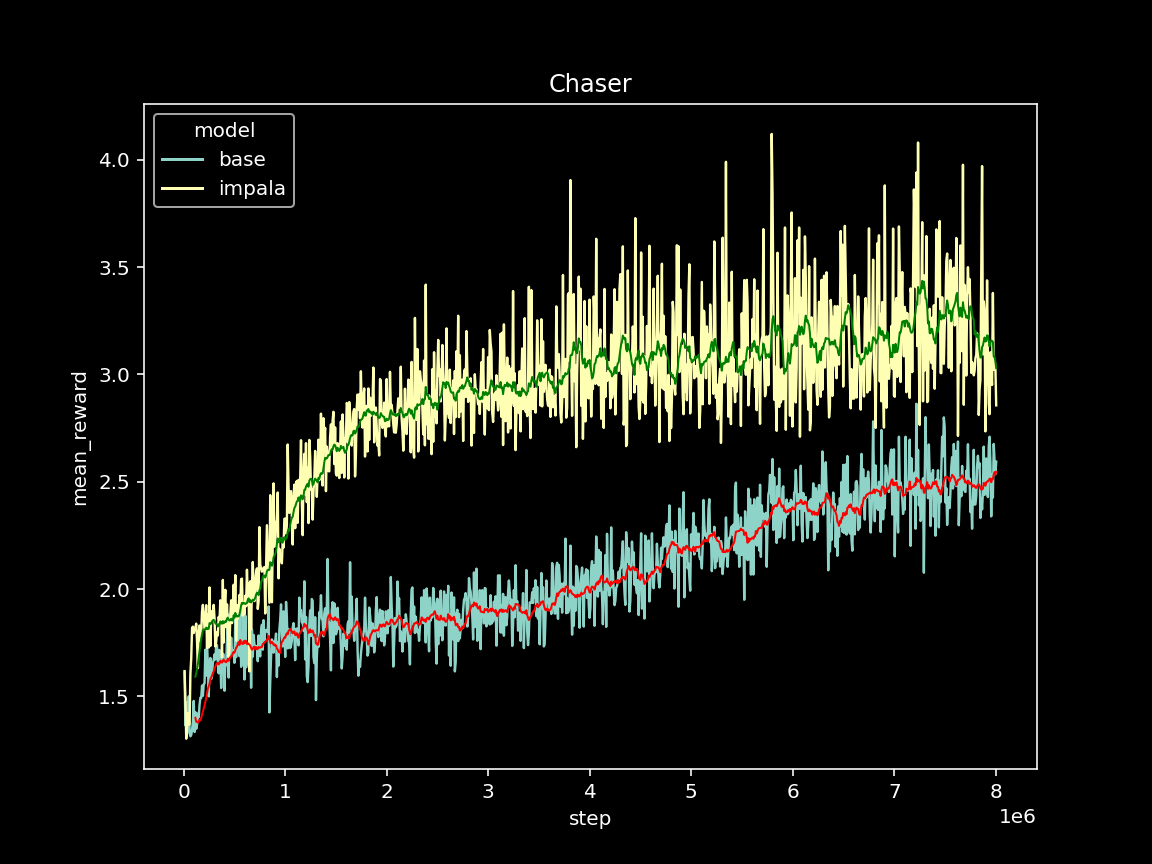
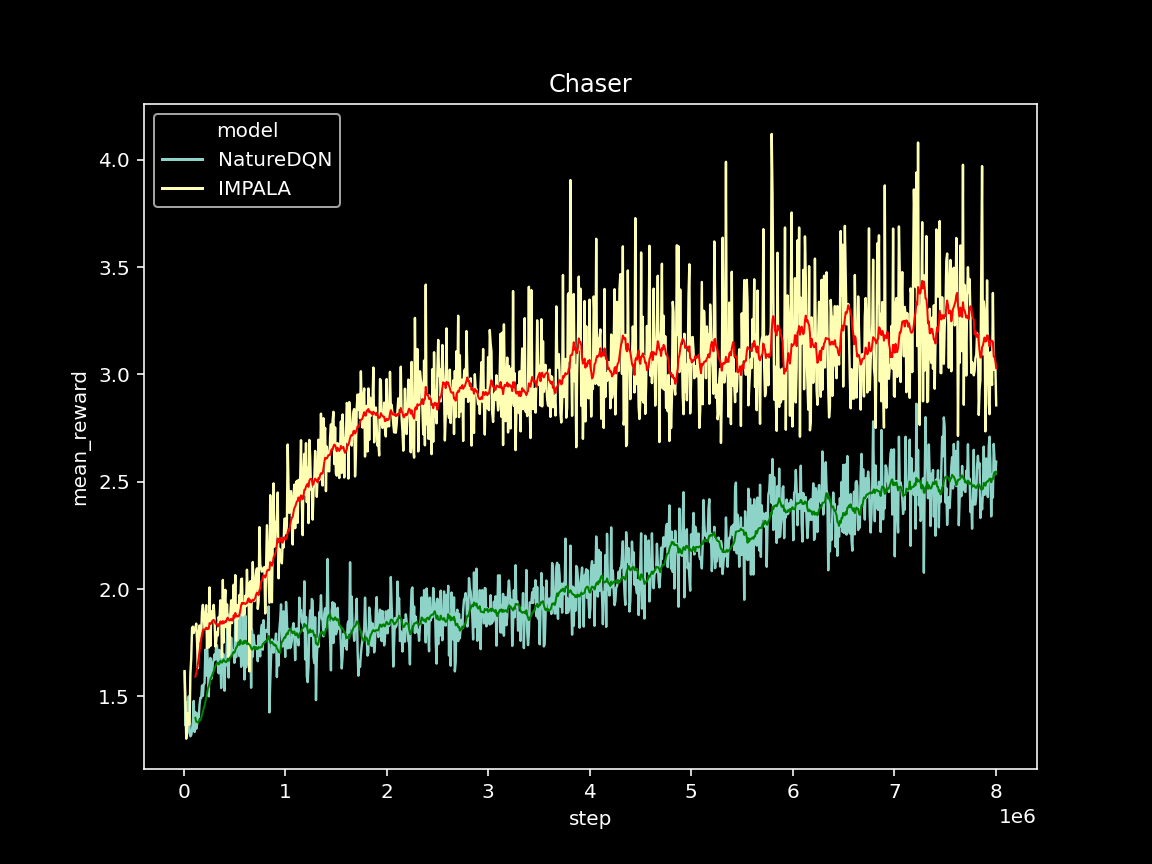
Change base for NatureDQN

diff --git a/results/cool_plots.py b/results/cool_plots.py
@@ -10,10 +10,10 @@ import matplotlib.pyplot as plt
 def get_plot(game_name):
 
     base_paths = list(Path(os.getcwd()).glob(f"results/base_all_games/data_{game_name}*.csv"))
-    df_base = pd.read_csv(base_paths[0]).assign(model='base')
+    df_base = pd.read_csv(base_paths[0]).assign(model='NatureDQN')
 
     impala_paths = list(Path(os.getcwd()).glob(f"results/impala_all_games/data_{game_name}*.csv"))
-    df_impala = pd.read_csv(impala_paths[0]).assign(model='impala')
+    df_impala = pd.read_csv(impala_paths[0]).assign(model='IMPALA')
 
     # Stack
     df_result = df_base.append(df_impala).reset_index(drop=True)
